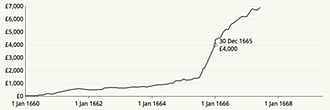
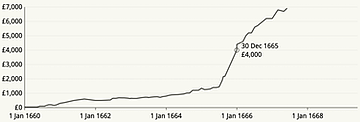
Update sidebar images, and add 2x versions
* 2x versions of all the sidebar images
* Make the map image full-width of sidebar

Changed region(s): [[0.0, 0.0273, 1.0, 0.9818]]

diff --git a/pepysdiary/templates/letters/letter_detail.html b/pepysdiary/templates/letters/letter_detail.html
@@ -75,10 +75,10 @@
 				<h1 class="aside-title">Source</h1>
 			</header>
 			<div class="aside-body">
-				{% if letter.source == letter.GUY_DE_LA_BEDOYERE_SOURCE %}
-				<img class="pull-right" src="{% static 'common/img/sidebar_particular_friends.jpg' %}" width="49" height="75" alt="Book cover" />
+				{% if letter.source == letter.Source.GUY_DE_LA_BEDOYERE %}
+				<img class="pull-right" src="{% static 'common/img/sidebar_particular_friends.jpg' %}" srcset="{% static 'common/img/sidebar_particular_friends.jpg' %} 2x" width="92" height="140" alt="Book cover" />
 					<p>Thanks to Guy de la Bédoyère for supplying the text and footnotes for this letter. You can purchase his book, <cite>Particular Friends: The Correspondence of Samuel Pepys and John Evelyn</cite>, at <a href="http://www.amazon.co.uk/gp/product/1843831341/ref=as_li_qf_sp_asin_il_tl?ie=UTF8&amp;tag=haddockorg-21&amp;linkCode=as2&amp;camp=1634&amp;creative=6738&amp;creativeASIN=1843831341">Amazon.co.uk</a> or <a href="http://www.amazon.com/gp/product/1843831341/ref=as_li_qf_sp_asin_il_tl?ie=UTF8&amp;tag=haddockorg-20&amp;linkCode=as2&amp;camp=1789&amp;creative=9325&amp;creativeASIN=1843831341">Amazon.com</a>.</p>
-				{% elif letter.source == letter.HELEN_TRUESDELL_HEATH_SOURCE %}
+				{% elif letter.source == letter.Source.HELEN_TRUESDELL_HEATH %}
 					<p>Excerpted from Helen Truesdell Heath's 1955 book, <cite>The Letters of Samuel Pepys and his Family Circle</cite>, available at <a href="http://www.amazon.co.uk/gp/product/B000XE6C64/ref=as_li_qf_sp_asin_il_tl?ie=UTF8&tag=haddockorg-21&linkCode=as2&camp=1634&creative=6738&creativeASIN=B000XE6C64">Amazon.co.uk</a> or <a href="http://www.amazon.com/gp/product/B000XE6C64/ref=as_li_qf_sp_asin_il_tl?ie=UTF8&tag=haddockorg-20&linkCode=as2&camp=1789&creative=9325&creativeASIN=B000XE6C64">Amazon.com</a>.</p>
 				{% endif %}
 			</div>

diff --git a/pepysdiary/templates/common/widgets/category_map_link.html b/pepysdiary/templates/common/widgets/category_map_link.html
@@ -4,8 +4,10 @@
 {% block widget_title %}Maps{% endblock %}
 
 {% block widget_body %}
-  <p class="clearfix">
-    <a href="{{ link_url }}"><img class="pull-right" src="{% static "common/img/sidebar_category_map.png" %}" width="110" height="62" alt="Map thumbnail" />
+  <p>
+    <a href="{{ link_url }}"><img class="img-responsive" src="{% static "common/img/sidebar_category_map.png" %}" srcset="{% static "common/img/sidebar_category_map_2x.png" %} 2x" width="360" height="150" alt="">
+  </p>
+  <p>
     <a href="{{ link_url }}">{{ link_text }}</a>
   </p>
 {% endblock %}

diff --git a/pepysdiary/templates/common/widgets/family_tree_link.html b/pepysdiary/templates/common/widgets/family_tree_link.html
@@ -5,7 +5,7 @@
 
 {% block widget_body %}
   <p>
-    <a href="{% url "encyclopedia_familytree" %}"><img class="img-responsive" src="{% static "common/img/sidebar_family_tree.png" %}" width="330" height="110" alt="Family tree thumbnail" />
+    <a href="{% url "encyclopedia_familytree" %}"><img class="img-responsive" src="{% static "common/img/sidebar_family_tree.png" %}" srcset="{% static "common/img/sidebar_family_tree_2x.png" %} 2x" width="360" height="150" alt="">
   </p>
   <p><a href="{% url "encyclopedia_familytree" %}">{{ link_text }}</a></p>
 {% endblock %}

diff --git a/pepysdiary/templates/common/widgets/pepys_wealth_link.html b/pepysdiary/templates/common/widgets/pepys_wealth_link.html
@@ -5,8 +5,7 @@
 
 {% block widget_body %}
   <p>
-    <a href="{{ link_url }}"><img class="img-responsive" src="{% static "common/img/sidebar_wealth_chart.png" %}" width="330" height="110" alt="Wealth chart thumbnail" />
+    <a href="{{ link_url }}"><img class="img-responsive" src="{% static "common/img/sidebar_wealth_chart.png" %}" srcset="{% static "common/img/sidebar_wealth_chart_2x.png" %} 2x" width="360" height="122" alt="">
   </p>
   <p><a href="{{ link_url }}">{{ link_text }}</a></p>
 {% endblock %}
-
